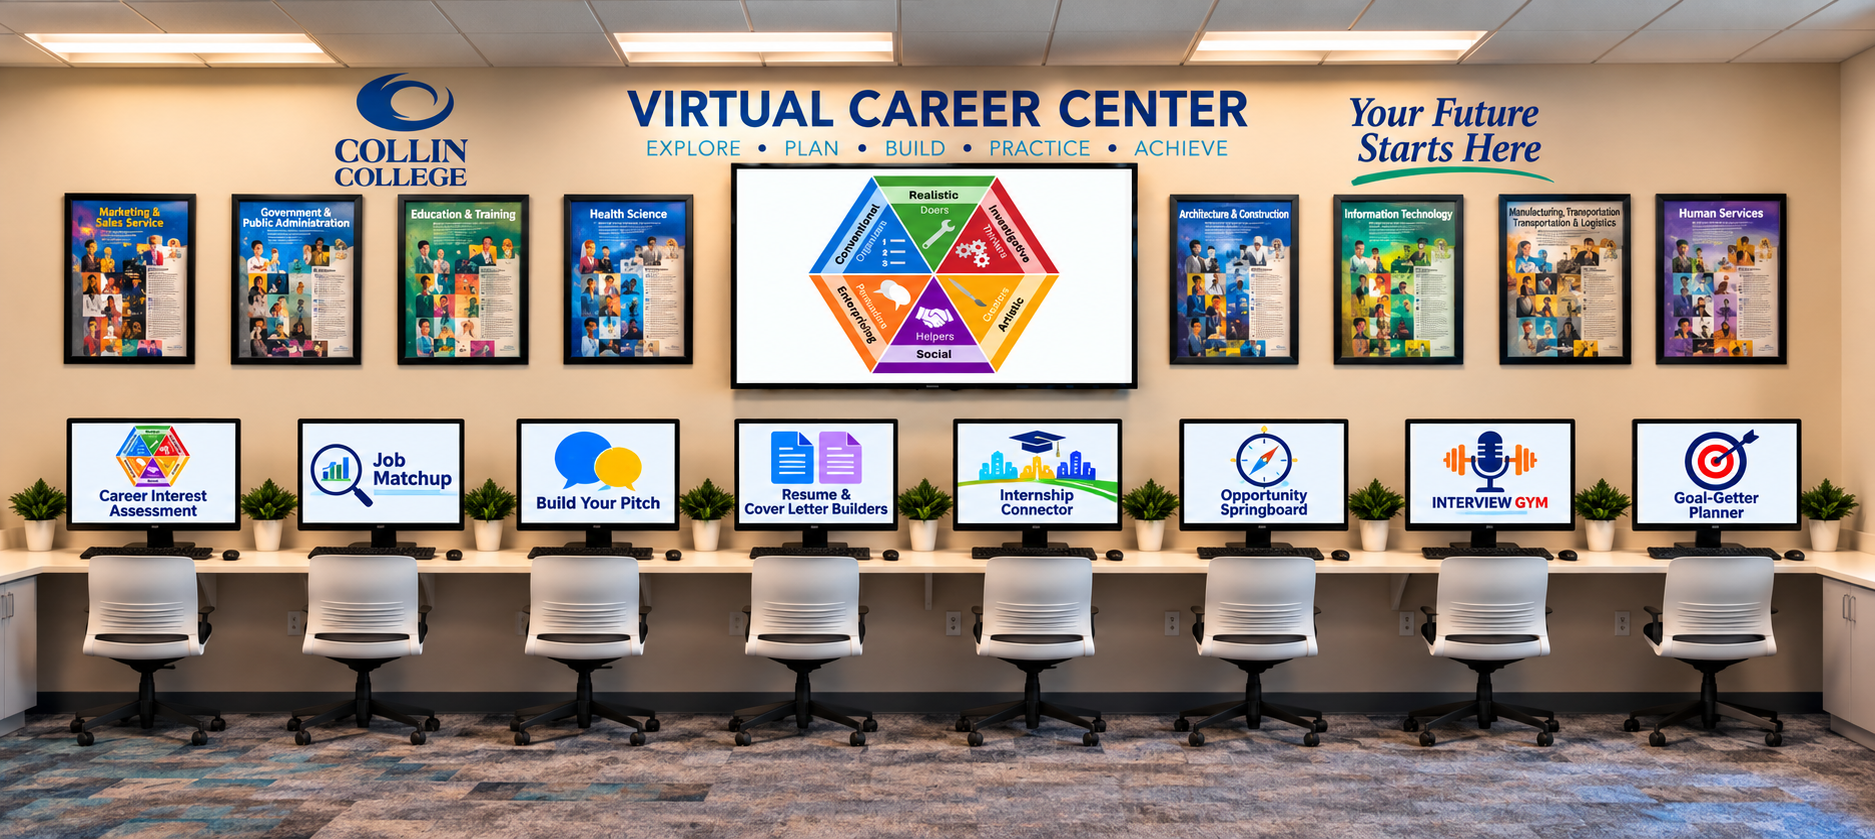
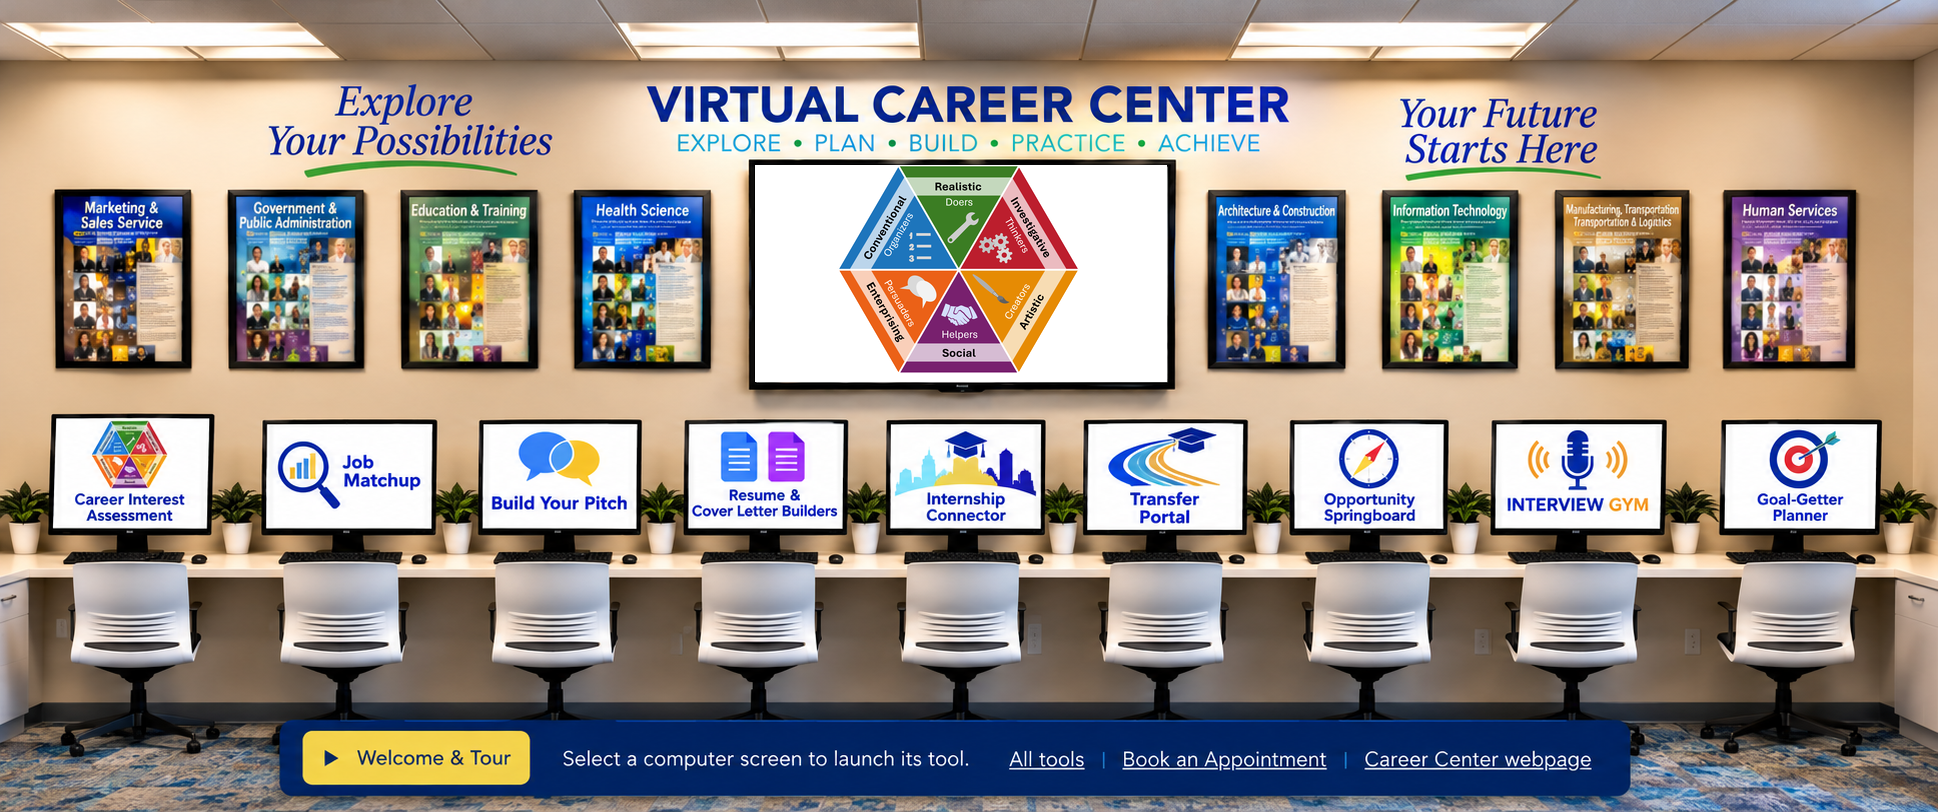
Add files via upload

diff --git a/index.html b/index.html
@@ -1,25 +1,20 @@
-<!doctype html><html lang="en"><head><meta charset="utf-8"><meta name="viewport" content="width=device-width,initial-scale=1"><title>Collin College | Virtual Career Center</title><style>
+<!DOCTYPE html>
+<html lang="en"><head><meta charset="utf-8"/><meta content="width=device-width,initial-scale=1" name="viewport"/><title>Collin College | Virtual Career Center</title><style>
 *{box-sizing:border-box}body{margin:0;background:#111e3a;color:white;font-family:Arial,sans-serif}.scene{position:relative;width:100%;max-width:1875px;margin:auto}.scene img{display:block;width:100%;height:auto}.hotspots{position:absolute;inset:0;width:100%;height:100%;overflow:visible}.station{fill:transparent;stroke:#ffd72b;stroke-width:4;stroke-opacity:0;cursor:pointer;vector-effect:non-scaling-stroke;transition:stroke-opacity .16s}.station:hover,.station:focus{stroke-opacity:1;outline:none}.station:focus-visible{stroke:#fff;stroke-opacity:1;stroke-width:6}.footer{position:fixed;bottom:18px;left:50%;transform:translateX(-50%);z-index:1;display:flex;flex-wrap:wrap;align-items:center;justify-content:center;gap:10px 18px;width:max-content;max-width:calc(100% - 24px);padding:12px 20px;text-align:center;font-size:14px;line-height:1.4;background:#111e3aeb;border:1px solid #ffffff35;border-radius:12px;box-shadow:0 5px 20px #0005}.footer a{color:#fff;text-decoration:underline;text-underline-offset:3px;white-space:nowrap}.footer a:focus-visible{outline:2px solid #ffd72b;outline-offset:3px}@media(max-width:620px){.footer{bottom:10px;padding:10px 12px;gap:7px 12px;font-size:12px;width:calc(100% - 20px)}}.modal-backdrop{position:fixed;inset:0;background:#061129bb;display:none;align-items:center;justify-content:center;padding:20px;z-index:2}.modal-backdrop.open{display:flex}.modal{background:white;color:#132450;border-radius:14px;max-width:390px;width:100%;padding:24px;box-shadow:0 12px 40px #0006}.modal h2{margin:0 0 14px;font-size:21px}.modal a{display:block;background:#173c85;color:white;padding:12px;border-radius:8px;margin:10px 0;text-align:center;text-decoration:none;font-weight:700}.modal button{background:transparent;border:1px solid #aaa;border-radius:7px;padding:9px 16px;cursor:pointer;width:100%;margin-top:5px} .welcome-button{display:inline-flex;align-items:center;gap:7px;background:#ffd72b;color:#12244b;border:0;border-radius:7px;padding:8px 12px;font-weight:700;cursor:pointer;white-space:nowrap}.welcome-button:hover{background:#ffe77c}.welcome-button:focus-visible{outline:3px solid #fff;outline-offset:3px}.welcome-button.pulse-once{animation:welcomePulse 1.2s ease-in-out 2}@keyframes welcomePulse{50%{box-shadow:0 0 0 7px #ffd72b55}}.welcome-modal{max-width:540px;max-height:min(85vh,700px);overflow-y:auto}.welcome-modal audio{width:100%;margin:10px 0}.welcome-modal details{margin:12px 0}.welcome-modal summary{cursor:pointer;font-weight:700}.welcome-modal .transcript{white-space:pre-line;line-height:1.55;font-size:14px;margin-top:12px}.welcome-modal .close-welcome{width:100%;border:1px solid #b5bbca;background:#fff;border-radius:7px;padding:10px;cursor:pointer}.sr-only{position:absolute;width:1px;height:1px;padding:0;margin:-1px;overflow:hidden;clip:rect(0,0,0,0);white-space:nowrap;border:0}
-</style></head><body><main><div class="scene"><img src="room.png" alt="Collin College Virtual Career Center with eight interactive computer stations" width="1875" height="839"><svg class="hotspots" viewBox="0 0 1875 839" preserveAspectRatio="xMidYMid meet" role="group" aria-label="Career tools: select a computer monitor">
-<a href="https://pathfinder123-creator.github.io/career-interest-assessment/" target="_blank" rel="noopener noreferrer" aria-label="Open Career Interest Assessment"><rect class="station" tabindex="0" x="69" y="421" width="168" height="107" rx="1"/></a>
-<a href="https://pathfinder123-creator.github.io/job-matchup/" target="_blank" rel="noopener noreferrer" aria-label="Open Job Matchup"><rect class="station" tabindex="0" x="300" y="421" width="161" height="107" rx="1"/></a>
-<a href="https://pathfinder123-creator.github.io/elevator-pitch/" target="_blank" rel="noopener noreferrer" aria-label="Open Build Your Pitch"><rect class="station" tabindex="0" x="519" y="421" width="158" height="107" rx="1"/></a>
-<rect class="station" tabindex="0" role="button" aria-label="Choose Résumé Builder or Cover Letter Builder" x="737" y="421" width="159" height="107" rx="1" onclick="openChoices()" onkeydown="if(event.key==='Enter'||event.key===' '){event.preventDefault();openChoices()}"/>
-<a href="https://pathfinder123-creator.github.io/internship-connector/" target="_blank" rel="noopener noreferrer" aria-label="Open Internship Connector"><rect class="station" tabindex="0" x="955" y="421" width="165" height="107" rx="1"/></a>
-<a href="https://pathfinder123-creator.github.io/opportunity-springboard/" target="_blank" rel="noopener noreferrer" aria-label="Open Opportunity Springboard"><rect class="station" tabindex="0" x="1182" y="421" width="164" height="107" rx="1"/></a>
-<a href="https://pathfinder123-creator.github.io/interview-gym/" target="_blank" rel="noopener noreferrer" aria-label="Open Interview Gym"><rect class="station" tabindex="0" x="1408" y="421" width="165" height="107" rx="1"/></a>
-<a href="https://pathfinder123-creator.github.io/goal-getter/" target="_blank" rel="noopener noreferrer" aria-label="Open Goal-Getter Planner"><rect class="station" tabindex="0" x="1635" y="421" width="164" height="107" rx="1"/></a>
-</svg></div><nav class="footer" aria-label="Career Center quick links"><button class="welcome-button pulse-once" type="button" onclick="openWelcome()" aria-haspopup="dialog">&#9654; Welcome &amp; Tour</button><span>Select a computer screen to launch its tool.</span><a href="#tools" onclick="event.preventDefault();openChoices('all')">All tools</a><a href="https://bookings.cloud.microsoft/book/CareerCenterManagers1@collin.edu/?ismsaljsauthenabled" target="_blank" rel="noopener noreferrer">Book an Appointment</a><a href="https://www.collin.edu/studentresources/career/" target="_blank" rel="noopener noreferrer">Career Center webpage</a></nav></main>
-<div class="modal-backdrop" id="welcome-dialog" onclick="if(event.target===this)closeWelcome()"><section class="modal welcome-modal" role="dialog" aria-modal="true" aria-labelledby="welcome-title"><h2 id="welcome-title">Welcome to the Virtual Career Center</h2><p>Listen to a short introduction to the resources available here.</p><audio id="welcome-audio" controls preload="none"><source src="welcome.mp3" type="audio/mpeg">Your browser does not support audio playback.</audio><details><summary>Read the welcome transcript</summary><div class="transcript">Welcome to the Collin College Virtual Career Center!
+
+/* The approved room PNG includes its footer artwork; interactive regions overlay it. */
+.nav-hit{fill:transparent;stroke:transparent;stroke-width:2;cursor:pointer;vector-effect:non-scaling-stroke}.nav-hit:hover{fill:#ffffff18}.nav-hit:focus-visible,g[role="button"]:focus-visible .nav-hit{stroke:#ffd72b;stroke-opacity:1;outline:none}.station{stroke-linejoin:round}.hotspots a:focus-visible .station,.hotspots g:focus-visible .station{stroke-opacity:1;stroke:#fff;stroke-width:5}.scene{max-width:1938px}
+</style></head><body><main><div class="scene"><img alt="Virtual Career Center with nine interactive computer stations" height="812" src="room.png" width="1938"/><svg aria-label="Nine career tool computer monitors and quick links" class="hotspots" preserveaspectratio="xMidYMid meet" role="group" viewBox="0 0 1938 812" viewbox="0 0 1875 839"><a aria-label="Open Career Interest Assessment" href="https://pathfinder123-creator.github.io/career-interest-assessment/" rel="noopener noreferrer" target="_blank"><rect class="station" height="120" rx="1" width="163" x="50" y="408"></rect></a><a aria-label="Open Job Matchup" href="https://pathfinder123-creator.github.io/job-matchup/" rel="noopener noreferrer" target="_blank"><rect class="station" height="116" rx="1" width="174" x="262" y="419"></rect></a><a aria-label="Open Build Your Pitch" href="https://pathfinder123-creator.github.io/elevator-pitch/" rel="noopener noreferrer" target="_blank"><rect class="station" height="116" rx="1" width="161" x="479" y="419"></rect></a><g aria-label="Choose Résumé Builder or Cover Letter Builder" onclick="openChoices()" onkeydown="if(event.key==='Enter'||event.key===' '){event.preventDefault();openChoices()}" role="button" tabindex="0"><rect class="station" height="116" rx="1" width="163" x="684" y="419"></rect></g><a aria-label="Open Internship Connector" href="https://pathfinder123-creator.github.io/internship-connector/" rel="noopener noreferrer" target="_blank"><rect class="station" height="116" rx="1" width="158" x="886" y="419"></rect></a><a aria-label="Open Transfer Portal" href="https://pathfinder123-creator.github.io/transfer-portal/" rel="noopener noreferrer" target="_blank"><rect class="station" height="116" rx="1" width="163" x="1083" y="419"></rect></a><a aria-label="Open Opportunity Springboard" href="https://pathfinder123-creator.github.io/opportunity-springboard/" rel="noopener noreferrer" target="_blank"><rect class="station" height="116" rx="1" width="157" x="1290" y="419"></rect></a><a aria-label="Open Interview Gym" href="https://pathfinder123-creator.github.io/interview-gym/" rel="noopener noreferrer" target="_blank"><rect class="station" height="116" rx="1" width="174" x="1491" y="419"></rect></a><a aria-label="Open Goal-Getter Planner" href="https://pathfinder123-creator.github.io/goal-getter/" rel="noopener noreferrer" target="_blank"><rect class="station" height="116" rx="1" width="160" x="1721" y="419"></rect></a><g aria-label="Welcome and Tour" onclick="openWelcome()" onkeydown="if(event.key==='Enter'||event.key===' '){event.preventDefault();openWelcome()}" role="button" tabindex="0"><rect class="nav-hit" height="53" rx="4" width="225" x="297" y="720"></rect></g><g aria-label="All tools" onclick="openChoices('all')" onkeydown="if(event.key==='Enter'||event.key===' '){event.preventDefault();openChoices('all')}" role="button" tabindex="0"><rect class="nav-hit" height="34" rx="4" width="80" x="995" y="731"></rect></g><a aria-label="Book an Appointment" href="https://bookings.cloud.microsoft/book/CareerCenterManagers1@collin.edu/?ismsaljsauthenabled" rel="noopener noreferrer" target="_blank"><rect class="nav-hit" height="34" rx="4" width="210" x="1104" y="731"></rect></a><a aria-label="Career Center webpage" href="https://www.collin.edu/studentresources/career/" rel="noopener noreferrer" target="_blank"><rect class="nav-hit" height="34" rx="4" width="234" x="1340" y="731"></rect></a></svg></div></main>
+<div class="modal-backdrop" id="welcome-dialog" onclick="if(event.target===this)closeWelcome()"><section aria-labelledby="welcome-title" aria-modal="true" class="modal welcome-modal" role="dialog"><h2 id="welcome-title">Welcome to the Virtual Career Center</h2><p>Listen to a short introduction to the resources available here.</p><audio controls="" id="welcome-audio" preload="none"><source src="welcome.mp3" type="audio/mpeg"/>Your browser does not support audio playback.</audio><details><summary>Read the welcome transcript</summary><div class="transcript">Welcome to the Collin College Virtual Career Center!
 
 Whether you're exploring career possibilities, preparing for your first job, or planning your next professional move, you've come to the right place.
 
-Each computer station connects you to a different career development tool. Explore your interests, compare occupations, build your résumé and cover letter, find opportunities, practice interviewing, or create a plan for reaching your goals.
+Each computer station connects you to a different career development tool. Explore your interests, compare occupations, build your résumé and cover letter, find opportunities, explore transfer options, practice interviewing, or create a plan for reaching your goals.
 
 There's no required sequence. Simply select any computer screen to get started.
 
 And remember, our Career Center team is here to help. You can book an appointment or visit our Career Center webpage using the links below.
 
-Your future starts here!</div></details><button class="close-welcome" type="button" onclick="closeWelcome()">Close</button></section></div>
-<div class="modal-backdrop" id="choices" onclick="if(event.target===this)closeChoices()"><div class="modal" role="dialog" aria-modal="true" aria-labelledby="dialog-title"><h2 id="dialog-title">Résumé &amp; Cover Letter Builders</h2><div id="dialog-links"><a href="https://pathfinder123-creator.github.io/resume-builder/" target="_blank" rel="noopener noreferrer">Open Résumé Builder</a><a href="https://pathfinder123-creator.github.io/cover-letter-builder/" target="_blank" rel="noopener noreferrer">Open Cover Letter Builder</a></div><button onclick="closeChoices()">Close</button></div></div>
-<script>let welcomeTrigger=null;function openWelcome(){welcomeTrigger=document.activeElement;document.getElementById('welcome-dialog').classList.add('open');document.querySelector('#welcome-dialog .close-welcome').focus()}function closeWelcome(){document.getElementById('welcome-audio').pause();document.getElementById('welcome-dialog').classList.remove('open');if(welcomeTrigger)welcomeTrigger.focus()}const links=[['Career Interest Assessment','career-interest-assessment'],['Job Matchup','job-matchup'],['Build Your Pitch','elevator-pitch'],['Résumé Builder','resume-builder'],['Cover Letter Builder','cover-letter-builder'],['Internship Connector','internship-connector'],['Opportunity Springboard','opportunity-springboard'],['Interview Gym','interview-gym'],['Goal-Getter Planner','goal-getter']];function openChoices(mode){const all=mode==='all';document.getElementById('dialog-title').textContent=all?'All Career Tools':'Résumé & Cover Letter Builders';document.getElementById('dialog-links').innerHTML=(all?links:links.slice(3,5)).map(([name,path])=>`<a href="https://pathfinder123-creator.github.io/${path}/" target="_blank" rel="noopener noreferrer">${name}</a>`).join('');document.getElementById('choices').classList.add('open');document.querySelector('.modal button').focus()}function closeChoices(){document.getElementById('choices').classList.remove('open')}document.addEventListener('keydown',e=>{if(e.key==='Escape'){closeChoices();if(document.getElementById('welcome-dialog').classList.contains('open'))closeWelcome()}});</script></body></html>
+Your future starts here!</div></details><button class="close-welcome" onclick="closeWelcome()" type="button">Close</button></section></div>
+<div class="modal-backdrop" id="choices" onclick="if(event.target===this)closeChoices()"><div aria-labelledby="dialog-title" aria-modal="true" class="modal" role="dialog"><h2 id="dialog-title">Résumé &amp; Cover Letter Builders</h2><div id="dialog-links"><a href="https://pathfinder123-creator.github.io/resume-builder/" rel="noopener noreferrer" target="_blank">Open Résumé Builder</a><a href="https://pathfinder123-creator.github.io/cover-letter-builder/" rel="noopener noreferrer" target="_blank">Open Cover Letter Builder</a></div><button onclick="closeChoices()">Close</button></div></div>
+<script>let welcomeTrigger=null;function openWelcome(){welcomeTrigger=document.activeElement;document.getElementById('welcome-dialog').classList.add('open');document.querySelector('#welcome-dialog .close-welcome').focus()}function closeWelcome(){document.getElementById('welcome-audio').pause();document.getElementById('welcome-dialog').classList.remove('open');if(welcomeTrigger)welcomeTrigger.focus()}const links=[['Career Interest Assessment','career-interest-assessment'],['Job Matchup','job-matchup'],['Build Your Pitch','elevator-pitch'],['Résumé Builder','resume-builder'],['Cover Letter Builder','cover-letter-builder'],['Internship Connector','internship-connector'],['Transfer Portal','transfer-portal'],['Opportunity Springboard','opportunity-springboard'],['Interview Gym','interview-gym'],['Goal-Getter Planner','goal-getter']];function openChoices(mode){const all=mode==='all';document.getElementById('dialog-title').textContent=all?'All Career Tools':'Résumé & Cover Letter Builders';document.getElementById('dialog-links').innerHTML=(all?links:links.slice(3,5)).map(([name,path])=>`<a href="https://pathfinder123-creator.github.io/${path}/" target="_blank" rel="noopener noreferrer">${name}</a>`).join('');document.getElementById('choices').classList.add('open');document.querySelector('.modal button').focus()}function closeChoices(){document.getElementById('choices').classList.remove('open')}document.addEventListener('keydown',e=>{if(e.key==='Escape'){closeChoices();if(document.getElementById('welcome-dialog').classList.contains('open'))closeWelcome()}});</script></body></html>
